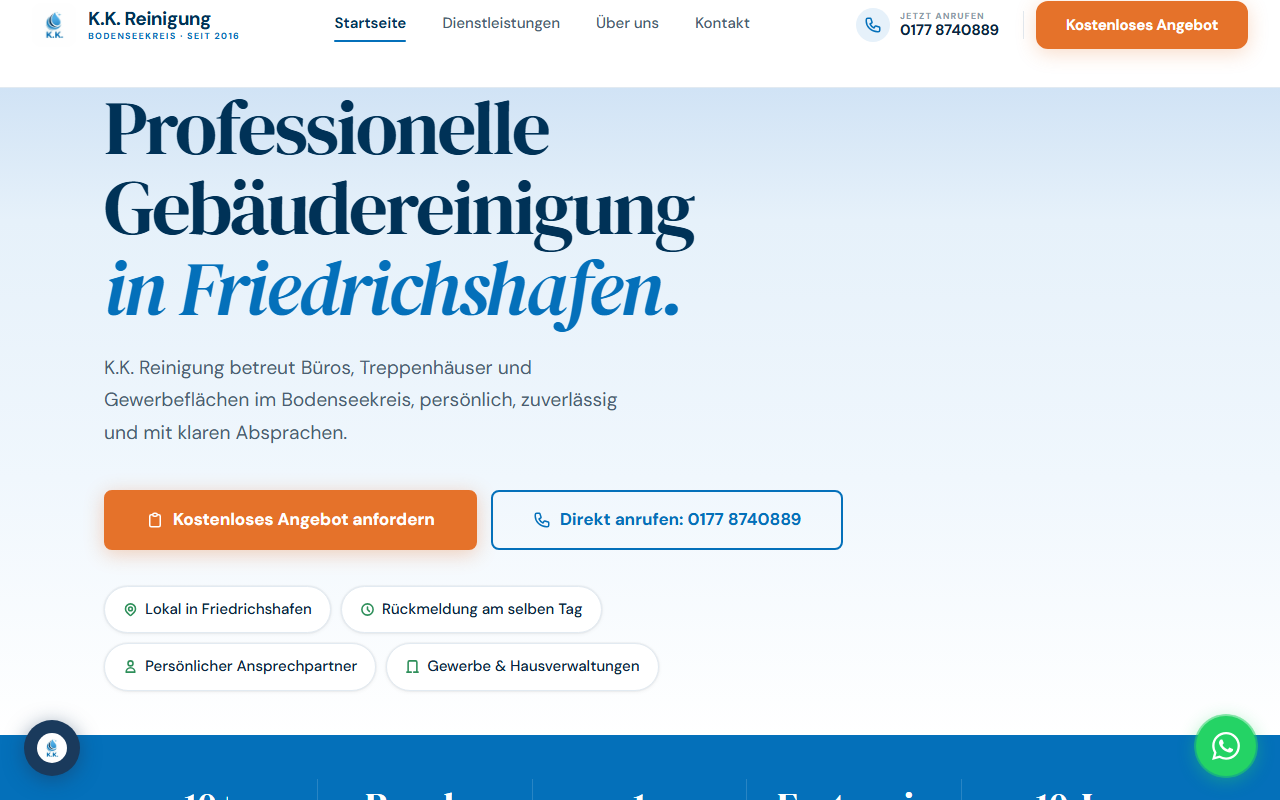
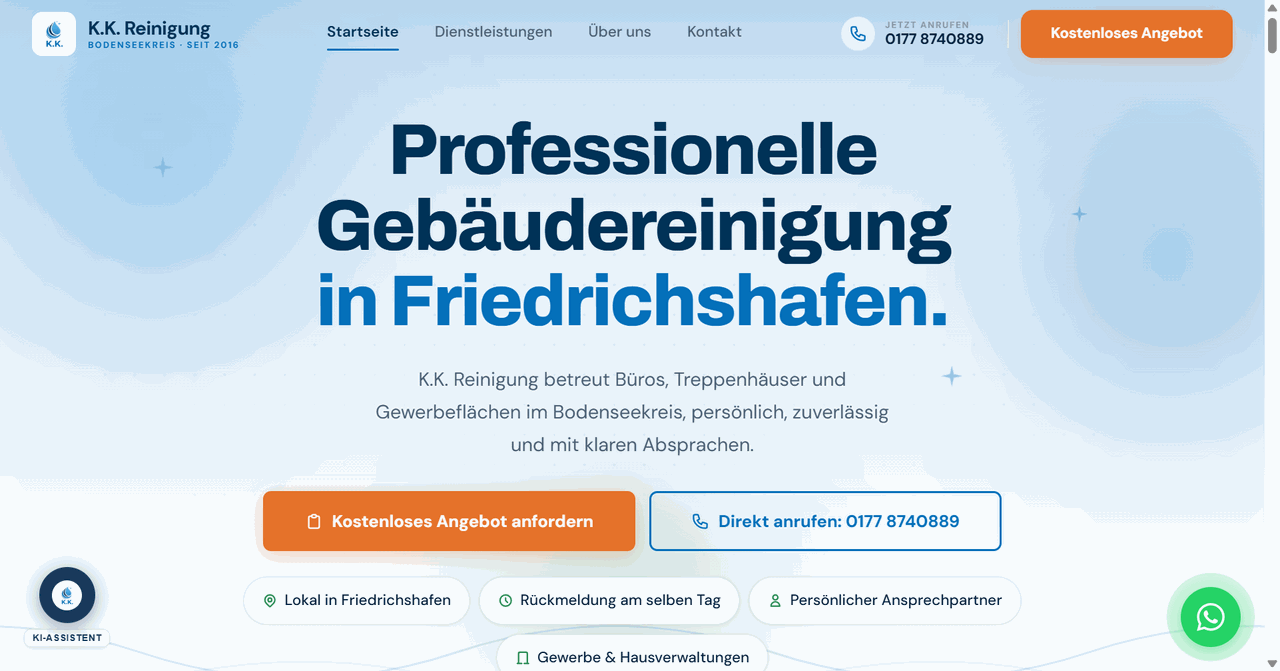
Case study + broaden positioning + GEO/SEO for Bodensee & Thurgau
Case study (fallstudie-kk-reinigung):
- Remove mobile before/after screenshots (delete 2 pngs + mobile-compare block)
- Add KI-Chatbot deliverable card (24/7 question answering on new site)

Index:
- Replace outdated KK reference screenshot with clean current capture
- Broaden positioning: no longer 'spezialisiert auf Reinigungsbetriebe' -> all
  industries (Reinigung, Arztpraxis, Handwerk, Personal Brand)
- Enrich meta description with Friedrichshafen, Konstanz, Frauenfeld

Site-wide GEO/SEO (10 pages):
- Schema description broadened + geo (Frauenfeld, Konstanz, Friedrichshafen, Bodenseekreis)
- areaServed: add Frauenfeld + Friedrichshafen (Thurgau, Bodenseekreis, Konstanz already)
- knowsAbout: Reinigungsbranche -> Webdesign für lokale Unternehmen
- projekte OG title broadened

diff --git a/index.html b/index.html
@@ -9,7 +9,7 @@
   <meta name="referrer" content="strict-origin-when-cross-origin" />
 
   <title>Webdesign Friedrichshafen | Anfragen bringen | EWD</title>
-  <meta name="description" content="Websites mit KI-Assistent, GEO / AI Search &amp; Google Business Optimierung für lokale Betriebe am Bodensee und im Thurgau. Mehr Anfragen, weniger Aufwand." />
+  <meta name="description" content="Websites mit KI-Assistent, GEO / AI Search &amp; Google Business Optimierung für lokale Unternehmen am Bodensee und im Thurgau – Friedrichshafen, Konstanz, Frauenfeld. Mehr Anfragen, weniger Aufwand." />
   <meta name="keywords" content="Webdesign Friedrichshafen, KI Agent Website, KI-Assistent Website, KI Automatisierung Bodensee, Webagentur Bodensee, Website erstellen Friedrichshafen, SEO Bodensee, Webdesign Handwerker, kuenstliche Intelligenz Website" />
   <meta name="robots" content="index, follow, max-image-preview:large" />
   <link rel="canonical" href="https://evowebdesign.ch/" />
@@ -46,7 +46,7 @@
     "name": "EWD – Evolved Web Designs",
     "legalName": "Evolved Web Designs GbR",
     "alternateName": "EWD",
-    "description": "Webdesign-Agentur für Reinigungsbetriebe in der Bodensee/Thurgau Region. Websites mit integriertem KI-Assistent, Google Business Optimierung und KI-Suchoptimierung für ChatGPT, Perplexity und Google AI.",
+    "description": "Webdesign-Agentur für lokale Unternehmen in der Bodensee- und Thurgau-Region – ob Reinigungsbetrieb, Arztpraxis, Handwerk oder Personal Brand. Websites mit integriertem KI-Assistent, Google-Business-Optimierung und KI-Suchoptimierung für ChatGPT, Perplexity und Google AI. Aktiv in Frauenfeld, Konstanz, Friedrichshafen und im gesamten Bodenseekreis.",
     "url": "https://evowebdesign.ch",
     "logo": "https://evowebdesign.ch/logo-nobg.png",
     "image": "https://evowebdesign.ch/logo-nobg.png",
@@ -92,6 +92,8 @@
     "areaServed": [
       { "@type": "AdministrativeArea", "name": "Bodenseekreis" },
       { "@type": "AdministrativeArea", "name": "Thurgau" },
+      { "@type": "City", "name": "Frauenfeld" },
+      { "@type": "City", "name": "Friedrichshafen" },
       { "@type": "City", "name": "Konstanz" },
       { "@type": "City", "name": "Kreuzlingen" },
       { "@type": "City", "name": "Radolfzell" },
@@ -104,7 +106,7 @@
       "KI-Suchoptimierung"
     ],
     "knowsAbout": [
-      "Reinigungsbranche",
+      "Webdesign für lokale Unternehmen",
       "lokale SEO",
       "KI-Suche",
       "ChatGPT Optimierung"
@@ -993,10 +995,10 @@
     </section>
 
     <!-- GEO / KI-LESBARER ÜBERBLICK -->
-    <section class="sec" aria-label="Über EWD – Webdesign für Reinigungsbetriebe" style="background:var(--bg-card);border-top:1px solid var(--border)">
+    <section class="sec" aria-label="Über EWD – Webdesign für lokale Unternehmen am Bodensee und im Thurgau" style="background:var(--bg-card);border-top:1px solid var(--border)">
       <div class="wrap-narrow">
-        <h2 style="font-size:1.05rem;font-weight:800;color:var(--text-secondary);letter-spacing:-.01em;margin-bottom:.85rem">Warum Reinigungsbetriebe in der Region auf uns setzen</h2>
-        <p style="font-size:.85rem;line-height:1.85;color:var(--text-secondary)">EWD – Evolved Web Designs ist eine Webdesign-Agentur spezialisiert auf Reinigungsbetriebe im Bodenseekreis und im Kanton Thurgau. Wir erstellen professionelle Websites mit integriertem KI-Assistenten, der Kundenanfragen automatisch beantwortet. Unsere Kunden sind Gebäudereiniger, Haushaltsreinigungen und Reinigungsunternehmen in Städten wie Konstanz, Kreuzlingen, Radolfzell, Singen, Winterthur und Frauenfeld. Neben klassischem Webdesign optimieren wir Betriebe für KI-Suchsysteme wie ChatGPT und Perplexity – damit lokale Reinigungsfirmen auch dann gefunden werden, wenn Kunden nicht mehr bei Google suchen, sondern direkt eine KI fragen.</p>
+        <h2 style="font-size:1.05rem;font-weight:800;color:var(--text-secondary);letter-spacing:-.01em;margin-bottom:.85rem">Warum lokale Unternehmen in der Region auf uns setzen</h2>
+        <p style="font-size:.85rem;line-height:1.85;color:var(--text-secondary)">EWD – Evolved Web Designs ist eine Webdesign-Agentur für lokale Unternehmen im Bodenseekreis und im Kanton Thurgau – vom Reinigungsbetrieb über die Arztpraxis und das Handwerk bis zur Personal-Brand-Seite. Wir erstellen professionelle Websites mit integriertem KI-Assistenten, der Kundenanfragen automatisch beantwortet. Unsere Kunden sitzen in Städten wie Friedrichshafen, Konstanz, Kreuzlingen, Radolfzell, Winterthur und Frauenfeld – im gesamten Bodenseekreis und im Thurgau. Neben klassischem Webdesign optimieren wir Betriebe für KI-Suchsysteme wie ChatGPT und Perplexity – damit sie auch dann gefunden werden, wenn Kunden nicht mehr bei Google suchen, sondern direkt eine KI fragen.</p>
       </div>
     </section>
 

diff --git a/projekte.html b/projekte.html
@@ -8,7 +8,7 @@
     <meta name="robots" content="index, follow">
     <link rel="canonical" href="https://evowebdesign.ch/projekte">
 
-    <meta property="og:title" content="Projekte – Webdesign für Reinigungsbetriebe | EWD">
+    <meta property="og:title" content="Projekte – Webdesign für lokale Unternehmen am Bodensee | EWD">
     <meta property="og:description" content="Echte Projekte aus der Region: u. a. die Website für KK Gebäudereinigung Friedrichshafen. Ihr Betrieb könnte der nächste sein.">
     <meta property="og:type" content="website">
     <meta property="og:url" content="https://evowebdesign.ch/projekte">
@@ -323,7 +323,7 @@
     "name": "EWD – Evolved Web Designs",
     "legalName": "Evolved Web Designs GbR",
     "alternateName": "EWD",
-    "description": "Webdesign-Agentur für Reinigungsbetriebe in der Bodensee/Thurgau Region. Websites mit integriertem KI-Assistent, Google Business Optimierung und KI-Suchoptimierung für ChatGPT, Perplexity und Google AI.",
+    "description": "Webdesign-Agentur für lokale Unternehmen in der Bodensee- und Thurgau-Region – ob Reinigungsbetrieb, Arztpraxis, Handwerk oder Personal Brand. Websites mit integriertem KI-Assistent, Google-Business-Optimierung und KI-Suchoptimierung für ChatGPT, Perplexity und Google AI. Aktiv in Frauenfeld, Konstanz, Friedrichshafen und im gesamten Bodenseekreis.",
     "url": "https://evowebdesign.ch",
     "logo": "https://evowebdesign.ch/logo-nobg.png",
     "image": "https://evowebdesign.ch/logo-nobg.png",
@@ -369,6 +369,8 @@
     "areaServed": [
       { "@type": "AdministrativeArea", "name": "Bodenseekreis" },
       { "@type": "AdministrativeArea", "name": "Thurgau" },
+      { "@type": "City", "name": "Frauenfeld" },
+      { "@type": "City", "name": "Friedrichshafen" },
       { "@type": "City", "name": "Konstanz" },
       { "@type": "City", "name": "Kreuzlingen" },
       { "@type": "City", "name": "Radolfzell" },
@@ -381,7 +383,7 @@
       "KI-Suchoptimierung"
     ],
     "knowsAbout": [
-      "Reinigungsbranche",
+      "Webdesign für lokale Unternehmen",
       "lokale SEO",
       "KI-Suche",
       "ChatGPT Optimierung"

diff --git a/fallstudie-kk-reinigung.html b/fallstudie-kk-reinigung.html
@@ -337,6 +337,13 @@
 
       <div class="deliverables">
         <div class="deliverable">
+          <div class="deliverable-icon">💬</div>
+          <div>
+            <h3>KI-Chatbot für Besucher</h3>
+            <p>Auf der neuen Seite haben wir einen KI-Assistenten eingebaut, der Besucherfragen rund um die Uhr automatisch beantwortet – zu Leistungen, Ablauf und Kontakt. So gehen auch außerhalb der Geschäftszeiten keine Anfragen verloren.</p>
+          </div>
+        </div>
+        <div class="deliverable">
           <div class="deliverable-icon">🎨</div>
           <div>
             <h3>Komplettes Hero-Redesign</h3>

diff --git a/angebote.html b/angebote.html
@@ -41,7 +41,7 @@
     "name": "EWD – Evolved Web Designs",
     "legalName": "Evolved Web Designs GbR",
     "alternateName": "EWD",
-    "description": "Webdesign-Agentur für Reinigungsbetriebe in der Bodensee/Thurgau Region. Websites mit integriertem KI-Assistent, Google Business Optimierung und KI-Suchoptimierung für ChatGPT, Perplexity und Google AI.",
+    "description": "Webdesign-Agentur für lokale Unternehmen in der Bodensee- und Thurgau-Region – ob Reinigungsbetrieb, Arztpraxis, Handwerk oder Personal Brand. Websites mit integriertem KI-Assistent, Google-Business-Optimierung und KI-Suchoptimierung für ChatGPT, Perplexity und Google AI. Aktiv in Frauenfeld, Konstanz, Friedrichshafen und im gesamten Bodenseekreis.",
     "url": "https://evowebdesign.ch",
     "logo": "https://evowebdesign.ch/logo-nobg.png",
     "image": "https://evowebdesign.ch/logo-nobg.png",
@@ -87,6 +87,8 @@
     "areaServed": [
       { "@type": "AdministrativeArea", "name": "Bodenseekreis" },
       { "@type": "AdministrativeArea", "name": "Thurgau" },
+      { "@type": "City", "name": "Frauenfeld" },
+      { "@type": "City", "name": "Friedrichshafen" },
       { "@type": "City", "name": "Konstanz" },
       { "@type": "City", "name": "Kreuzlingen" },
       { "@type": "City", "name": "Radolfzell" },
@@ -99,7 +101,7 @@
       "KI-Suchoptimierung"
     ],
     "knowsAbout": [
-      "Reinigungsbranche",
+      "Webdesign für lokale Unternehmen",
       "lokale SEO",
       "KI-Suche",
       "ChatGPT Optimierung"

diff --git a/kontakt.html b/kontakt.html
@@ -259,7 +259,7 @@
     "name": "EWD – Evolved Web Designs",
     "legalName": "Evolved Web Designs GbR",
     "alternateName": "EWD",
-    "description": "Webdesign-Agentur für Reinigungsbetriebe in der Bodensee/Thurgau Region. Websites mit integriertem KI-Assistent, Google Business Optimierung und KI-Suchoptimierung für ChatGPT, Perplexity und Google AI.",
+    "description": "Webdesign-Agentur für lokale Unternehmen in der Bodensee- und Thurgau-Region – ob Reinigungsbetrieb, Arztpraxis, Handwerk oder Personal Brand. Websites mit integriertem KI-Assistent, Google-Business-Optimierung und KI-Suchoptimierung für ChatGPT, Perplexity und Google AI. Aktiv in Frauenfeld, Konstanz, Friedrichshafen und im gesamten Bodenseekreis.",
     "url": "https://evowebdesign.ch",
     "logo": "https://evowebdesign.ch/logo-nobg.png",
     "image": "https://evowebdesign.ch/logo-nobg.png",
@@ -305,6 +305,8 @@
     "areaServed": [
       { "@type": "AdministrativeArea", "name": "Bodenseekreis" },
       { "@type": "AdministrativeArea", "name": "Thurgau" },
+      { "@type": "City", "name": "Frauenfeld" },
+      { "@type": "City", "name": "Friedrichshafen" },
       { "@type": "City", "name": "Konstanz" },
       { "@type": "City", "name": "Kreuzlingen" },
       { "@type": "City", "name": "Radolfzell" },
@@ -317,7 +319,7 @@
       "KI-Suchoptimierung"
     ],
     "knowsAbout": [
-      "Reinigungsbranche",
+      "Webdesign für lokale Unternehmen",
       "lokale SEO",
       "KI-Suche",
       "ChatGPT Optimierung"

diff --git a/kostenlose-analyse.html b/kostenlose-analyse.html
@@ -38,7 +38,7 @@
     "name": "EWD – Evolved Web Designs",
     "legalName": "Evolved Web Designs GbR",
     "alternateName": "EWD",
-    "description": "Webdesign-Agentur für Reinigungsbetriebe in der Bodensee/Thurgau Region. Websites mit integriertem KI-Assistent, Google Business Optimierung und KI-Suchoptimierung für ChatGPT, Perplexity und Google AI.",
+    "description": "Webdesign-Agentur für lokale Unternehmen in der Bodensee- und Thurgau-Region – ob Reinigungsbetrieb, Arztpraxis, Handwerk oder Personal Brand. Websites mit integriertem KI-Assistent, Google-Business-Optimierung und KI-Suchoptimierung für ChatGPT, Perplexity und Google AI. Aktiv in Frauenfeld, Konstanz, Friedrichshafen und im gesamten Bodenseekreis.",
     "url": "https://evowebdesign.ch",
     "logo": "https://evowebdesign.ch/logo-nobg.png",
     "telephone": "+491717031722",
@@ -47,6 +47,8 @@
     "areaServed": [
       { "@type": "AdministrativeArea", "name": "Bodenseekreis" },
       { "@type": "AdministrativeArea", "name": "Thurgau" },
+      { "@type": "City", "name": "Frauenfeld" },
+      { "@type": "City", "name": "Friedrichshafen" },
       { "@type": "City", "name": "Konstanz" },
       { "@type": "City", "name": "Kreuzlingen" },
       { "@type": "City", "name": "Radolfzell" },
@@ -59,7 +61,7 @@
       "KI-Suchoptimierung"
     ],
     "knowsAbout": [
-      "Reinigungsbranche",
+      "Webdesign für lokale Unternehmen",
       "lokale SEO",
       "KI-Suche",
       "ChatGPT Optimierung"

diff --git a/leistungen.html b/leistungen.html
@@ -41,7 +41,7 @@
     "name": "EWD – Evolved Web Designs",
     "legalName": "Evolved Web Designs GbR",
     "alternateName": "EWD",
-    "description": "Webdesign-Agentur für Reinigungsbetriebe in der Bodensee/Thurgau Region. Websites mit integriertem KI-Assistent, Google Business Optimierung und KI-Suchoptimierung für ChatGPT, Perplexity und Google AI.",
+    "description": "Webdesign-Agentur für lokale Unternehmen in der Bodensee- und Thurgau-Region – ob Reinigungsbetrieb, Arztpraxis, Handwerk oder Personal Brand. Websites mit integriertem KI-Assistent, Google-Business-Optimierung und KI-Suchoptimierung für ChatGPT, Perplexity und Google AI. Aktiv in Frauenfeld, Konstanz, Friedrichshafen und im gesamten Bodenseekreis.",
     "url": "https://evowebdesign.ch",
     "logo": "https://evowebdesign.ch/logo-nobg.png",
     "image": "https://evowebdesign.ch/logo-nobg.png",
@@ -87,6 +87,8 @@
     "areaServed": [
       { "@type": "AdministrativeArea", "name": "Bodenseekreis" },
       { "@type": "AdministrativeArea", "name": "Thurgau" },
+      { "@type": "City", "name": "Frauenfeld" },
+      { "@type": "City", "name": "Friedrichshafen" },
       { "@type": "City", "name": "Konstanz" },
       { "@type": "City", "name": "Kreuzlingen" },
       { "@type": "City", "name": "Radolfzell" },
@@ -99,7 +101,7 @@
       "KI-Suchoptimierung"
     ],
     "knowsAbout": [
-      "Reinigungsbranche",
+      "Webdesign für lokale Unternehmen",
       "lokale SEO",
       "KI-Suche",
       "ChatGPT Optimierung"

diff --git a/ueber-uns.html b/ueber-uns.html
@@ -43,7 +43,7 @@
     "name": "EWD – Evolved Web Designs",
     "legalName": "Evolved Web Designs GbR",
     "alternateName": "EWD",
-    "description": "Webdesign-Agentur für Reinigungsbetriebe in der Bodensee/Thurgau Region. Websites mit integriertem KI-Assistent, Google Business Optimierung und KI-Suchoptimierung für ChatGPT, Perplexity und Google AI.",
+    "description": "Webdesign-Agentur für lokale Unternehmen in der Bodensee- und Thurgau-Region – ob Reinigungsbetrieb, Arztpraxis, Handwerk oder Personal Brand. Websites mit integriertem KI-Assistent, Google-Business-Optimierung und KI-Suchoptimierung für ChatGPT, Perplexity und Google AI. Aktiv in Frauenfeld, Konstanz, Friedrichshafen und im gesamten Bodenseekreis.",
     "url": "https://evowebdesign.ch",
     "logo": "https://evowebdesign.ch/logo-nobg.png",
     "image": "https://evowebdesign.ch/logo-nobg.png",
@@ -89,6 +89,8 @@
     "areaServed": [
       { "@type": "AdministrativeArea", "name": "Bodenseekreis" },
       { "@type": "AdministrativeArea", "name": "Thurgau" },
+      { "@type": "City", "name": "Frauenfeld" },
+      { "@type": "City", "name": "Friedrichshafen" },
       { "@type": "City", "name": "Konstanz" },
       { "@type": "City", "name": "Kreuzlingen" },
       { "@type": "City", "name": "Radolfzell" },
@@ -101,7 +103,7 @@
       "KI-Suchoptimierung"
     ],
     "knowsAbout": [
-      "Reinigungsbranche",
+      "Webdesign für lokale Unternehmen",
       "lokale SEO",
       "KI-Suche",
       "ChatGPT Optimierung"

diff --git a/webdesign-konstanz.html b/webdesign-konstanz.html
@@ -41,7 +41,7 @@
     "name": "EWD – Evolved Web Designs",
     "legalName": "Evolved Web Designs GbR",
     "alternateName": "EWD",
-    "description": "Webdesign-Agentur für Reinigungsbetriebe in der Bodensee/Thurgau Region. Websites mit integriertem KI-Assistent, Google Business Optimierung und KI-Suchoptimierung für ChatGPT, Perplexity und Google AI.",
+    "description": "Webdesign-Agentur für lokale Unternehmen in der Bodensee- und Thurgau-Region – ob Reinigungsbetrieb, Arztpraxis, Handwerk oder Personal Brand. Websites mit integriertem KI-Assistent, Google-Business-Optimierung und KI-Suchoptimierung für ChatGPT, Perplexity und Google AI. Aktiv in Frauenfeld, Konstanz, Friedrichshafen und im gesamten Bodenseekreis.",
     "url": "https://evowebdesign.ch",
     "logo": "https://evowebdesign.ch/logo-nobg.png",
     "image": "https://evowebdesign.ch/logo-nobg.png",
@@ -87,6 +87,8 @@
     "areaServed": [
       { "@type": "AdministrativeArea", "name": "Bodenseekreis" },
       { "@type": "AdministrativeArea", "name": "Thurgau" },
+      { "@type": "City", "name": "Frauenfeld" },
+      { "@type": "City", "name": "Friedrichshafen" },
       { "@type": "City", "name": "Konstanz" },
       { "@type": "City", "name": "Kreuzlingen" },
       { "@type": "City", "name": "Radolfzell" },
@@ -99,7 +101,7 @@
       "KI-Suchoptimierung"
     ],
     "knowsAbout": [
-      "Reinigungsbranche",
+      "Webdesign für lokale Unternehmen",
       "lokale SEO",
       "KI-Suche",
       "ChatGPT Optimierung"

diff --git a/webdesign-lindau.html b/webdesign-lindau.html
@@ -41,7 +41,7 @@
     "name": "EWD – Evolved Web Designs",
     "legalName": "Evolved Web Designs GbR",
     "alternateName": "EWD",
-    "description": "Webdesign-Agentur für Reinigungsbetriebe in der Bodensee/Thurgau Region. Websites mit integriertem KI-Assistent, Google Business Optimierung und KI-Suchoptimierung für ChatGPT, Perplexity und Google AI.",
+    "description": "Webdesign-Agentur für lokale Unternehmen in der Bodensee- und Thurgau-Region – ob Reinigungsbetrieb, Arztpraxis, Handwerk oder Personal Brand. Websites mit integriertem KI-Assistent, Google-Business-Optimierung und KI-Suchoptimierung für ChatGPT, Perplexity und Google AI. Aktiv in Frauenfeld, Konstanz, Friedrichshafen und im gesamten Bodenseekreis.",
     "url": "https://evowebdesign.ch",
     "logo": "https://evowebdesign.ch/logo-nobg.png",
     "image": "https://evowebdesign.ch/logo-nobg.png",
@@ -87,6 +87,8 @@
     "areaServed": [
       { "@type": "AdministrativeArea", "name": "Bodenseekreis" },
       { "@type": "AdministrativeArea", "name": "Thurgau" },
+      { "@type": "City", "name": "Frauenfeld" },
+      { "@type": "City", "name": "Friedrichshafen" },
       { "@type": "City", "name": "Konstanz" },
       { "@type": "City", "name": "Kreuzlingen" },
       { "@type": "City", "name": "Radolfzell" },
@@ -99,7 +101,7 @@
       "KI-Suchoptimierung"
     ],
     "knowsAbout": [
-      "Reinigungsbranche",
+      "Webdesign für lokale Unternehmen",
       "lokale SEO",
       "KI-Suche",
       "ChatGPT Optimierung"

diff --git a/webdesign-ravensburg.html b/webdesign-ravensburg.html
@@ -41,7 +41,7 @@
     "name": "EWD – Evolved Web Designs",
     "legalName": "Evolved Web Designs GbR",
     "alternateName": "EWD",
-    "description": "Webdesign-Agentur für Reinigungsbetriebe in der Bodensee/Thurgau Region. Websites mit integriertem KI-Assistent, Google Business Optimierung und KI-Suchoptimierung für ChatGPT, Perplexity und Google AI.",
+    "description": "Webdesign-Agentur für lokale Unternehmen in der Bodensee- und Thurgau-Region – ob Reinigungsbetrieb, Arztpraxis, Handwerk oder Personal Brand. Websites mit integriertem KI-Assistent, Google-Business-Optimierung und KI-Suchoptimierung für ChatGPT, Perplexity und Google AI. Aktiv in Frauenfeld, Konstanz, Friedrichshafen und im gesamten Bodenseekreis.",
     "url": "https://evowebdesign.ch",
     "logo": "https://evowebdesign.ch/logo-nobg.png",
     "image": "https://evowebdesign.ch/logo-nobg.png",
@@ -87,6 +87,8 @@
     "areaServed": [
       { "@type": "AdministrativeArea", "name": "Bodenseekreis" },
       { "@type": "AdministrativeArea", "name": "Thurgau" },
+      { "@type": "City", "name": "Frauenfeld" },
+      { "@type": "City", "name": "Friedrichshafen" },
       { "@type": "City", "name": "Konstanz" },
       { "@type": "City", "name": "Kreuzlingen" },
       { "@type": "City", "name": "Radolfzell" },
@@ -99,7 +101,7 @@
       "KI-Suchoptimierung"
     ],
     "knowsAbout": [
-      "Reinigungsbranche",
+      "Webdesign für lokale Unternehmen",
       "lokale SEO",
       "KI-Suche",
       "ChatGPT Optimierung"